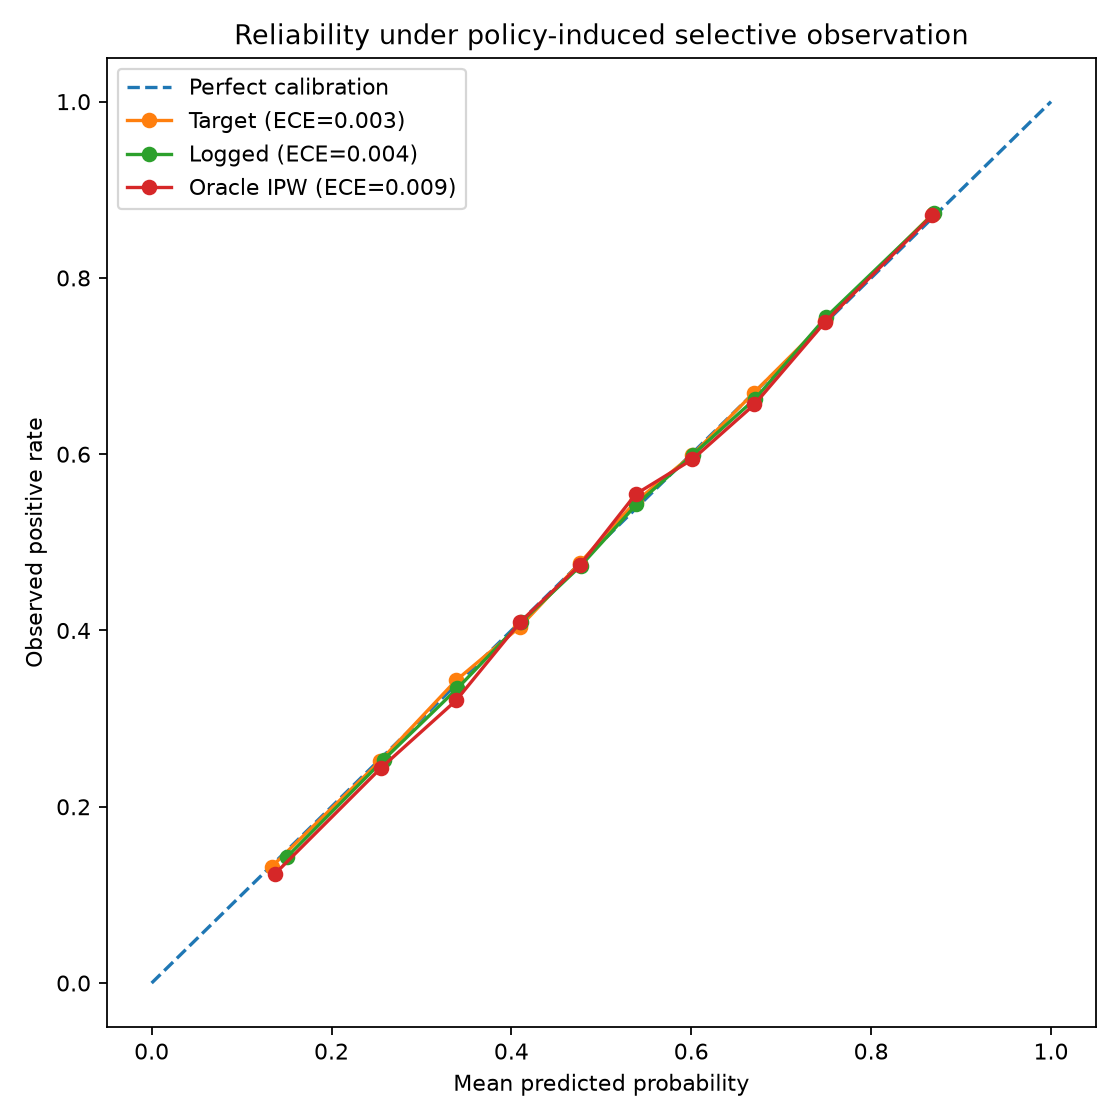
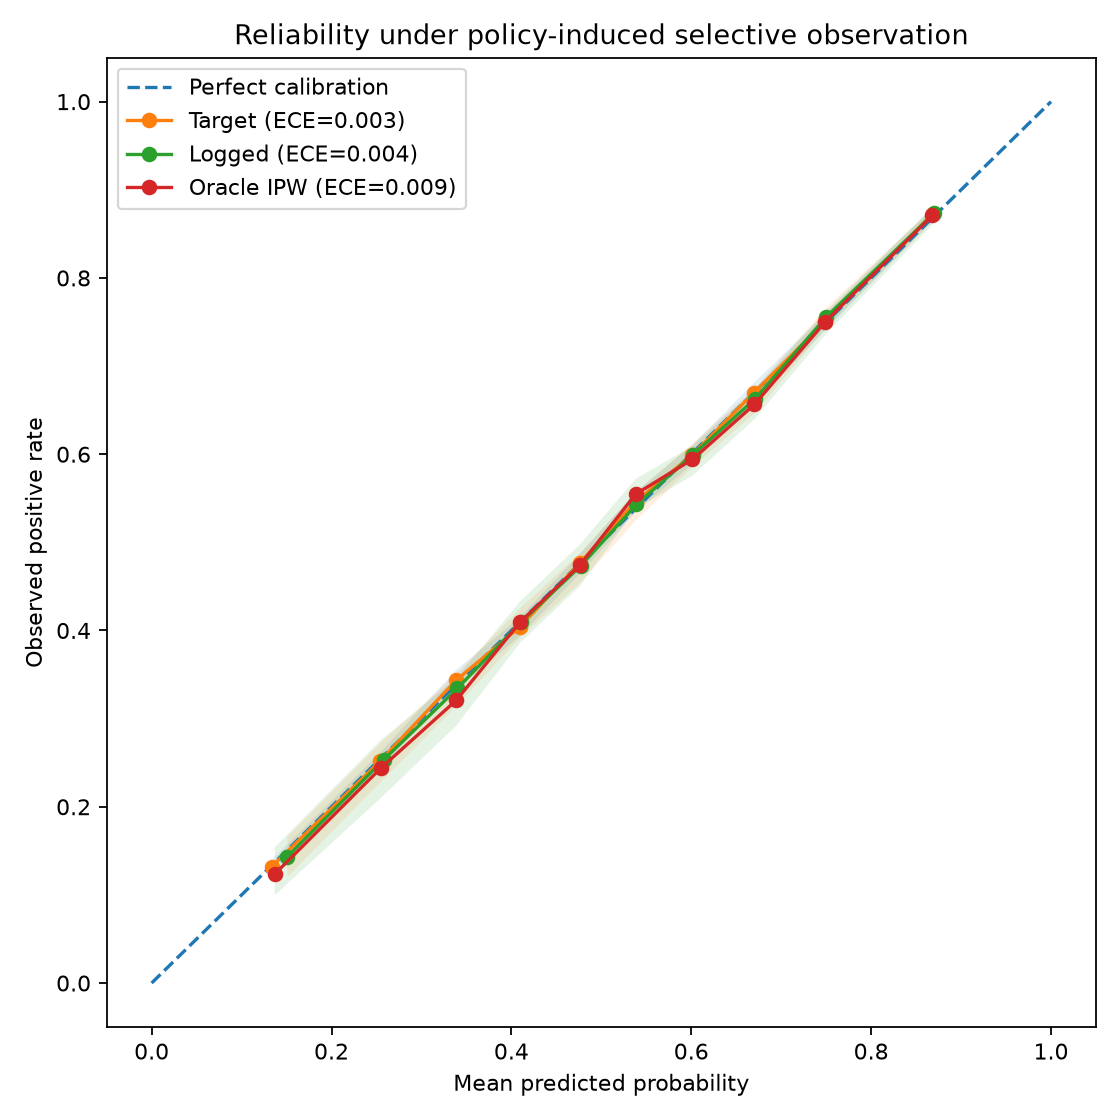
Add bootstrap bands for calibration curves

diff --git a/src/policyshiftlab/calibration.py b/src/policyshiftlab/calibration.py
@@ -170,3 +170,97 @@ def expected_calibration_error(
     gaps = np.abs(bins.fraction_positive - bins.mean_predicted)
 
     return float(np.sum((bins.bin_weight / total_weight) * gaps))
+
+
+@dataclass(frozen=True)
+class BootstrapCalibrationBands:
+    """Pointwise percentile bootstrap bands for a reliability curve."""
+
+    mean_predicted: np.ndarray
+    fraction_positive: np.ndarray
+    lower: np.ndarray
+    upper: np.ndarray
+    n_bootstrap: int
+
+
+def bootstrap_calibration_bands(
+    y_true: np.ndarray,
+    y_prob: np.ndarray,
+    *,
+    bin_edges: np.ndarray,
+    sample_weight: np.ndarray | None = None,
+    n_bootstrap: int = 500,
+    confidence_level: float = 0.95,
+    seed: int = 0,
+) -> BootstrapCalibrationBands:
+    """Return pointwise bootstrap bands using fixed score bins.
+
+    Rows are resampled with replacement. When ``sample_weight`` is supplied,
+    each resampled row carries its original weight. The resulting weighted
+    within-bin positive rates are ratio estimators.
+
+    These are pointwise percentile bands. They are descriptive uncertainty
+    summaries, not simultaneous confidence bands and not a formal test of
+    differences between calibration curves.
+    """
+    y = np.asarray(y_true, dtype=float)
+    p = np.asarray(y_prob, dtype=float)
+    edges = np.asarray(bin_edges, dtype=float)
+
+    if y.ndim != 1 or p.ndim != 1 or y.shape != p.shape:
+        raise ValueError("y_true and y_prob must be matching 1D arrays")
+    if y.size == 0:
+        raise ValueError("inputs must be non-empty")
+    if n_bootstrap < 2:
+        raise ValueError("n_bootstrap must be at least 2")
+    if not 0.0 < confidence_level < 1.0:
+        raise ValueError("confidence_level must lie in (0, 1)")
+
+    if sample_weight is None:
+        w = None
+    else:
+        w = np.asarray(sample_weight, dtype=float)
+        if w.ndim != 1 or w.shape != y.shape:
+            raise ValueError("sample_weight must match y_true shape")
+
+    point = calibration_bins(
+        y,
+        p,
+        sample_weight=w,
+        bin_edges=edges,
+    )
+    n_expected_bins = edges.size - 1
+    if point.fraction_positive.size != n_expected_bins:
+        raise ValueError(
+            "every fixed bin must contain positive mass in the original sample"
+        )
+
+    rng = np.random.default_rng(seed)
+    draws = np.full((n_bootstrap, n_expected_bins), np.nan, dtype=float)
+
+    for bootstrap_index in range(n_bootstrap):
+        indices = rng.integers(0, y.size, size=y.size)
+        boot_w = None if w is None else w[indices]
+        boot = calibration_bins(
+            y[indices],
+            p[indices],
+            sample_weight=boot_w,
+            bin_edges=edges,
+        )
+
+        # With reasonably populated fixed bins, all bins should survive.
+        # If a rare bootstrap sample empties a bin, leave that draw as NaN.
+        if boot.fraction_positive.size == n_expected_bins:
+            draws[bootstrap_index] = boot.fraction_positive
+
+    alpha = 1.0 - confidence_level
+    lower = np.nanquantile(draws, alpha / 2.0, axis=0)
+    upper = np.nanquantile(draws, 1.0 - alpha / 2.0, axis=0)
+
+    return BootstrapCalibrationBands(
+        mean_predicted=point.mean_predicted,
+        fraction_positive=point.fraction_positive,
+        lower=lower,
+        upper=upper,
+        n_bootstrap=n_bootstrap,
+    )

diff --git a/tests/test_calibration.py b/tests/test_calibration.py
@@ -2,6 +2,7 @@ import numpy as np
 import pytest
 
 from policyshiftlab.calibration import (
+    bootstrap_calibration_bands,
     calibration_bins,
     expected_calibration_error,
     quantile_bin_edges,
@@ -127,3 +128,80 @@ def test_shared_edges_cover_zero_and_one() -> None:
 
     assert edges[0] == pytest.approx(0.0)
     assert edges[-1] == pytest.approx(1.0)
+
+
+def test_bootstrap_bands_have_expected_shape_and_order() -> None:
+    rng = np.random.default_rng(4)
+    p = np.linspace(0.01, 0.99, 400)
+    y = rng.binomial(1, p)
+    edges = quantile_bin_edges(p, n_bins=5)
+
+    bands = bootstrap_calibration_bands(
+        y,
+        p,
+        bin_edges=edges,
+        n_bootstrap=100,
+        seed=5,
+    )
+
+    assert bands.lower.shape == (5,)
+    assert bands.upper.shape == (5,)
+    assert np.all(bands.lower <= bands.upper)
+    assert np.all(
+        (bands.fraction_positive >= 0.0)
+        & (bands.fraction_positive <= 1.0)
+    )
+
+
+def test_weighted_bootstrap_is_reproducible() -> None:
+    rng = np.random.default_rng(8)
+    p = np.linspace(0.01, 0.99, 300)
+    y = rng.binomial(1, p)
+    w = np.linspace(0.5, 3.0, 300)
+    edges = quantile_bin_edges(p, n_bins=5)
+
+    first = bootstrap_calibration_bands(
+        y,
+        p,
+        sample_weight=w,
+        bin_edges=edges,
+        n_bootstrap=80,
+        seed=10,
+    )
+    second = bootstrap_calibration_bands(
+        y,
+        p,
+        sample_weight=w,
+        bin_edges=edges,
+        n_bootstrap=80,
+        seed=10,
+    )
+
+    np.testing.assert_allclose(first.lower, second.lower)
+    np.testing.assert_allclose(first.upper, second.upper)
+
+
+@pytest.mark.parametrize(
+    ("n_bootstrap", "confidence_level"),
+    [
+        (1, 0.95),
+        (10, 0.0),
+        (10, 1.0),
+    ],
+)
+def test_invalid_bootstrap_configuration_is_rejected(
+    n_bootstrap,
+    confidence_level,
+) -> None:
+    y = np.array([0, 0, 1, 1], dtype=float)
+    p = np.array([0.1, 0.2, 0.8, 0.9], dtype=float)
+    edges = np.array([0.0, 0.5, 1.0])
+
+    with pytest.raises(ValueError):
+        bootstrap_calibration_bands(
+            y,
+            p,
+            bin_edges=edges,
+            n_bootstrap=n_bootstrap,
+            confidence_level=confidence_level,
+        )

diff --git a/experiments/04_calibration_curves.py b/experiments/04_calibration_curves.py
@@ -6,6 +6,7 @@ import matplotlib.pyplot as plt
 import numpy as np
 
 from policyshiftlab.calibration import (
+    bootstrap_calibration_bands,
     calibration_bins,
     expected_calibration_error,
     quantile_bin_edges,
@@ -68,6 +69,29 @@ def main() -> None:
         bin_edges=edges,
     )
 
+    target_band = bootstrap_calibration_bands(
+        y,
+        p,
+        bin_edges=edges,
+        n_bootstrap=300,
+        seed=101,
+    )
+    logged_band = bootstrap_calibration_bands(
+        y[selected],
+        p[selected],
+        bin_edges=edges,
+        n_bootstrap=300,
+        seed=102,
+    )
+    ipw_band = bootstrap_calibration_bands(
+        y[selected],
+        p[selected],
+        sample_weight=ipw,
+        bin_edges=edges,
+        n_bootstrap=300,
+        seed=103,
+    )
+
     figure_dir = Path("figures")
     figure_dir.mkdir(exist_ok=True)
     output_path = figure_dir / "target_logged_ipw_reliability.png"
@@ -80,17 +104,35 @@ def main() -> None:
         marker="o",
         label=f"Target (ECE={target_ece:.3f})",
     )
+    plt.fill_between(
+        target_band.mean_predicted,
+        target_band.lower,
+        target_band.upper,
+        alpha=0.12,
+    )
     plt.plot(
         logged_bins.mean_predicted,
         logged_bins.fraction_positive,
         marker="o",
         label=f"Logged (ECE={logged_ece:.3f})",
     )
+    plt.fill_between(
+        logged_band.mean_predicted,
+        logged_band.lower,
+        logged_band.upper,
+        alpha=0.12,
+    )
     plt.plot(
         ipw_bins.mean_predicted,
         ipw_bins.fraction_positive,
         marker="o",
         label=f"Oracle IPW (ECE={ipw_ece:.3f})",
+    )
+    plt.fill_between(
+        ipw_band.mean_predicted,
+        ipw_band.lower,
+        ipw_band.upper,
+        alpha=0.12,
     )
     plt.xlabel("Mean predicted probability")
     plt.ylabel("Observed positive rate")
@@ -105,6 +147,7 @@ def main() -> None:
     print(f"target ECE: {target_ece:.6f}")
     print(f"logged ECE: {logged_ece:.6f}")
     print(f"oracle IPW ECE: {ipw_ece:.6f}")
+    print("bands: pointwise 95% percentile bootstrap intervals")
     print(
         "logged raw count range: "
         f"{logged_bins.bin_count.min()}-{logged_bins.bin_count.max()}"
